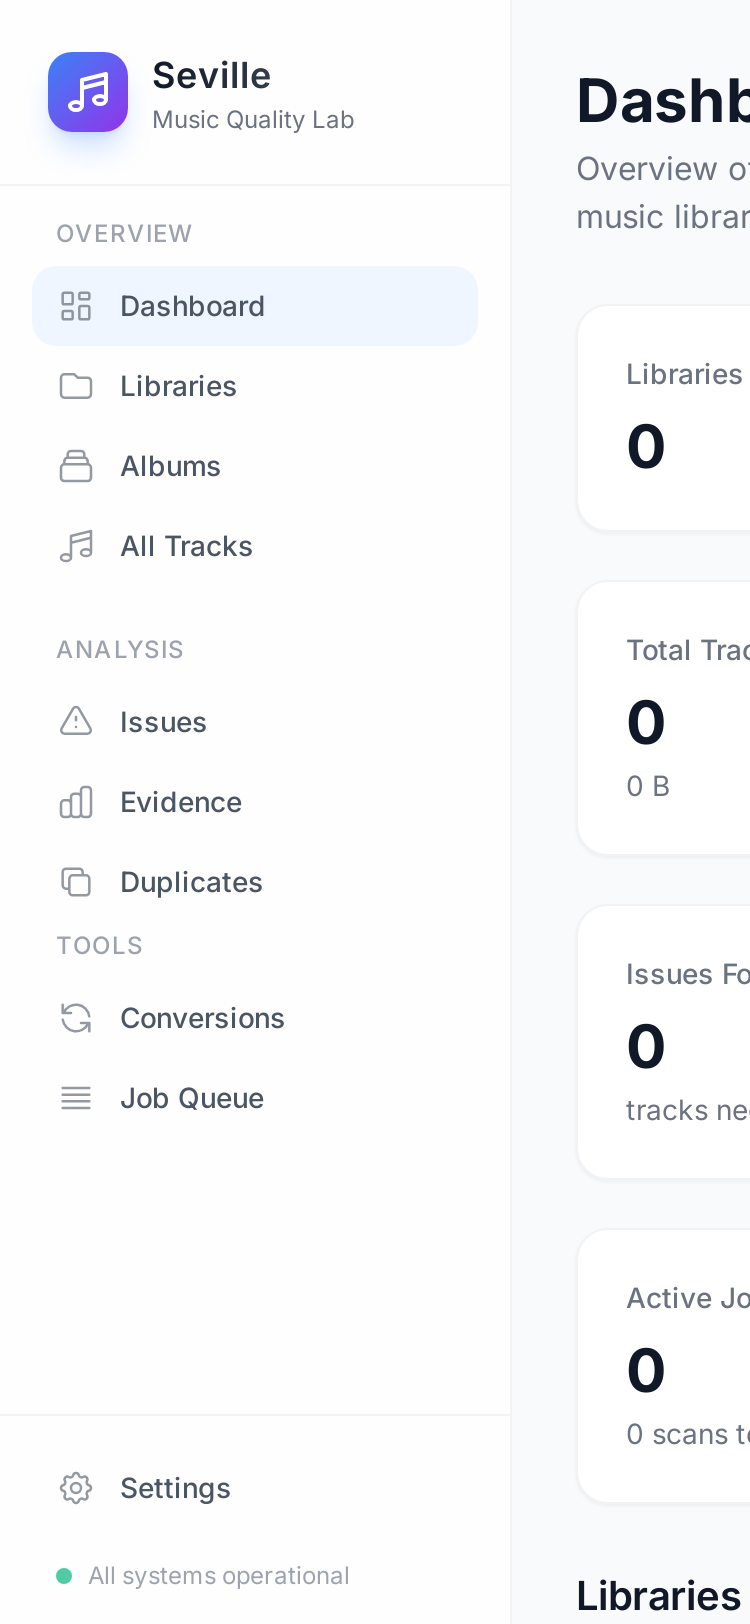
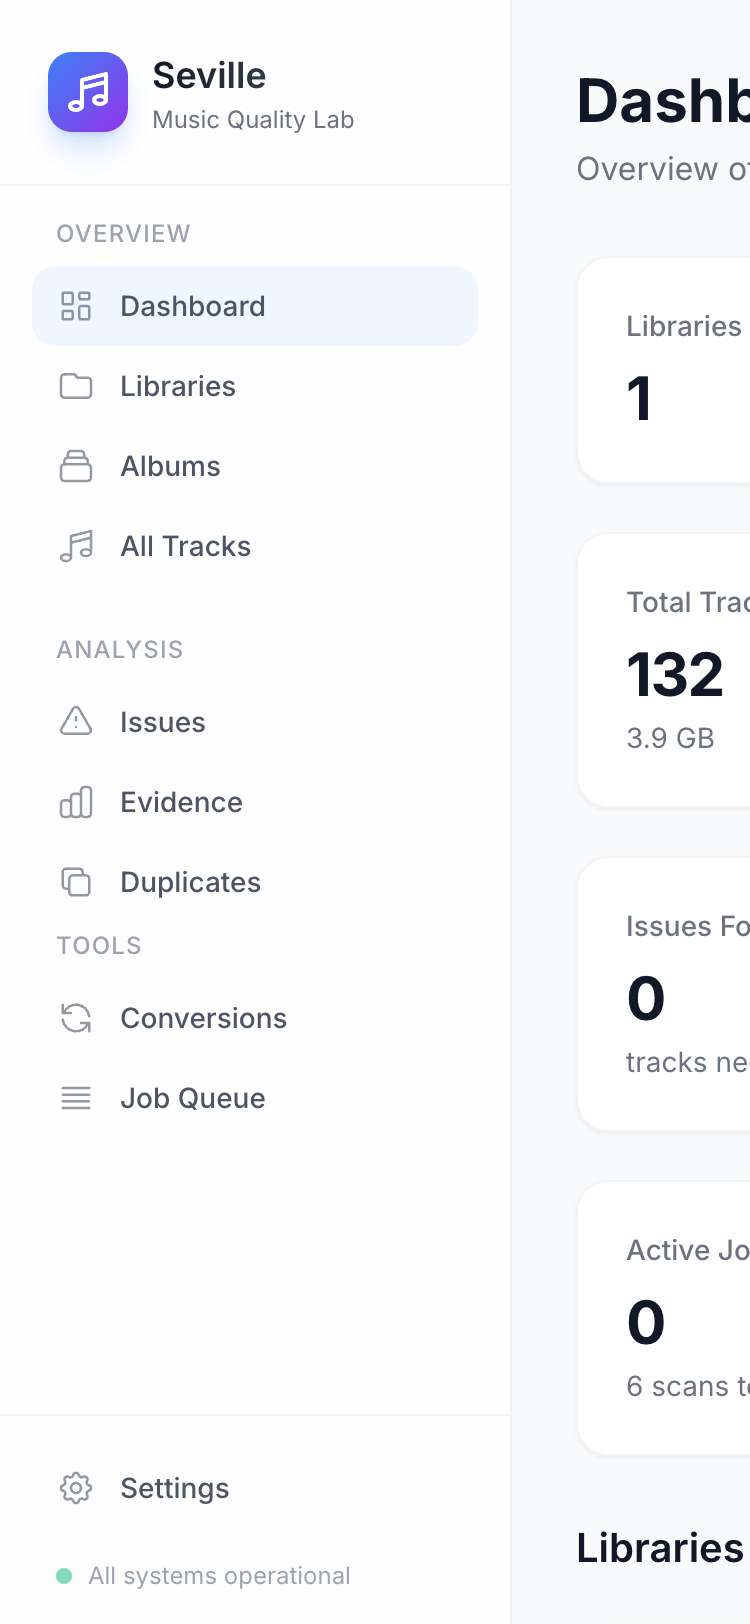
Update screenshots with populated music data and track detail page
- Dashboard shows 2 libraries with 109 tracks
- Tracks page shows populated music collection
- Add track detail screenshots showing pro-level analysis
- Update screenshot script to support remote server and track detail page
- Screenshots now show Ottavia branding correctly

diff --git a/tests/e2e/screenshots.go b/tests/e2e/screenshots.go
@@ -6,7 +6,6 @@ import (
 	"fmt"
 	"log"
 	"os"
-	"os/exec"
 	"path/filepath"
 	"time"
 
@@ -14,21 +13,11 @@ import (
 )
 
 func main() {
-	// Start the server in background
-	serverCmd := exec.Command("./bin/ottavia", "-debug")
-	serverCmd.Stdout = os.Stdout
-	serverCmd.Stderr = os.Stderr
-	if err := serverCmd.Start(); err != nil {
-		log.Printf("Note: Server may already be running or binary not built")
+	// Get base URL from environment or default
+	baseURL := os.Getenv("OTTAVIA_URL")
+	if baseURL == "" {
+		baseURL = "http://ottavia" // Default to remote server
 	}
-	defer func() {
-		if serverCmd.Process != nil {
-			serverCmd.Process.Kill()
-		}
-	}()
-
-	// Wait for server to start
-	time.Sleep(2 * time.Second)
 
 	// Install playwright browsers
 	if err := playwright.Install(); err != nil {
@@ -57,6 +46,12 @@ func main() {
 		log.Fatalf("could not create screenshots dir: %v", err)
 	}
 
+	// Get a track ID for the track detail page
+	trackID := os.Getenv("OTTAVIA_TRACK_ID")
+	if trackID == "" {
+		trackID = "6b6e7b79-eb0d-457e-b890-a72e7dd8bdd3" // Default track ID
+	}
+
 	// Screenshots to capture
 	screenshots := []struct {
 		name     string
@@ -65,14 +60,17 @@ func main() {
 		height   int
 		darkMode bool
 		wait     time.Duration
+		fullPage bool
 	}{
-		{"dashboard-light", "/", 1920, 1080, false, 500 * time.Millisecond},
-		{"dashboard-dark", "/", 1920, 1080, true, 500 * time.Millisecond},
-		{"tracks-light", "/tracks", 1920, 1080, false, 500 * time.Millisecond},
-		{"tracks-dark", "/tracks", 1920, 1080, true, 500 * time.Millisecond},
-		{"settings-light", "/settings", 1920, 1080, false, 500 * time.Millisecond},
-		{"settings-dark", "/settings", 1920, 1080, true, 500 * time.Millisecond},
-		{"dashboard-mobile", "/", 375, 812, false, 500 * time.Millisecond},
+		{"dashboard-light", "/", 1920, 1080, false, 500 * time.Millisecond, false},
+		{"dashboard-dark", "/", 1920, 1080, true, 500 * time.Millisecond, false},
+		{"tracks-light", "/tracks", 1920, 1080, false, 500 * time.Millisecond, false},
+		{"tracks-dark", "/tracks", 1920, 1080, true, 500 * time.Millisecond, false},
+		{"track-detail-light", "/tracks/" + trackID, 1920, 1400, false, 500 * time.Millisecond, true},
+		{"track-detail-dark", "/tracks/" + trackID, 1920, 1400, true, 500 * time.Millisecond, true},
+		{"settings-light", "/settings", 1920, 1080, false, 500 * time.Millisecond, false},
+		{"settings-dark", "/settings", 1920, 1080, true, 500 * time.Millisecond, false},
+		{"dashboard-mobile", "/", 375, 812, false, 500 * time.Millisecond, false},
 	}
 
 	for _, s := range screenshots {
@@ -105,7 +103,7 @@ func main() {
 		}
 
 		// Navigate to page
-		_, err = page.Goto(fmt.Sprintf("http://localhost:8080%s", s.path), playwright.PageGotoOptions{
+		_, err = page.Goto(fmt.Sprintf("%s%s", baseURL, s.path), playwright.PageGotoOptions{
 			WaitUntil: playwright.WaitUntilStateNetworkidle,
 		})
 		if err != nil {
@@ -130,7 +128,7 @@ func main() {
 		screenshotPath := filepath.Join(screenshotsDir, fmt.Sprintf("%s.png", s.name))
 		_, err = page.Screenshot(playwright.PageScreenshotOptions{
 			Path:     playwright.String(screenshotPath),
-			FullPage: playwright.Bool(false),
+			FullPage: playwright.Bool(s.fullPage),
 		})
 		if err != nil {
 			log.Printf("Error taking screenshot %s: %v", s.name, err)
